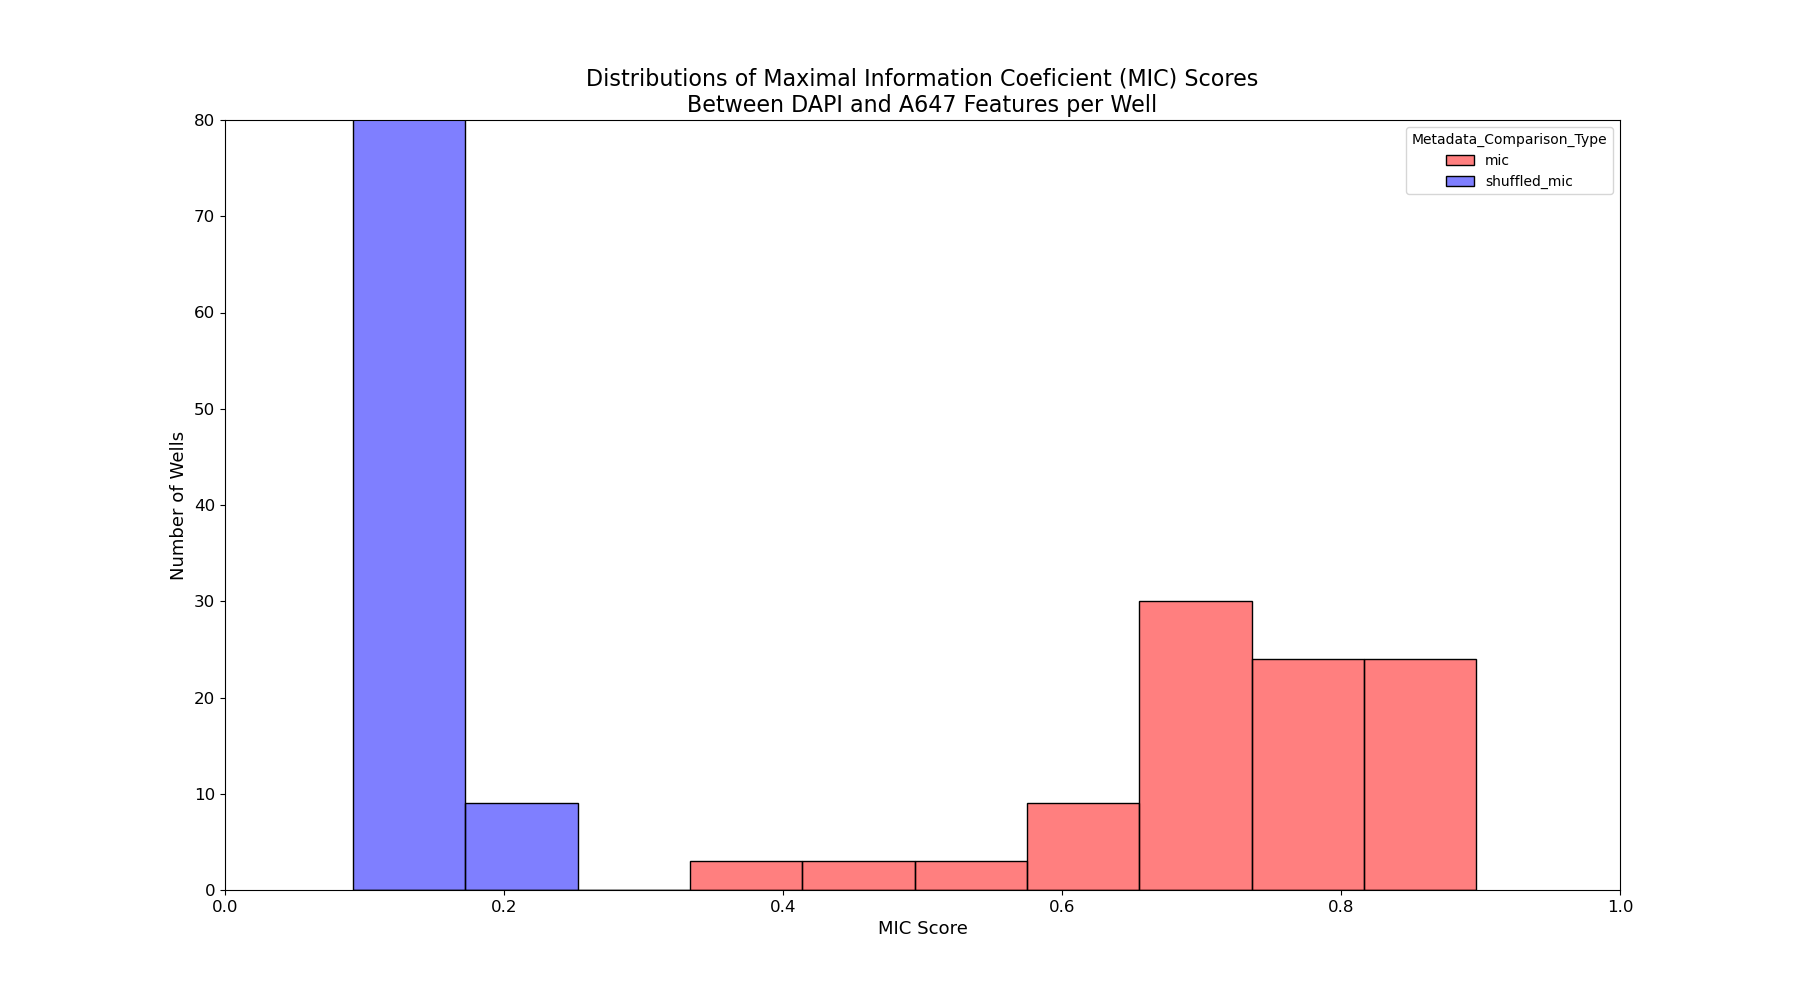
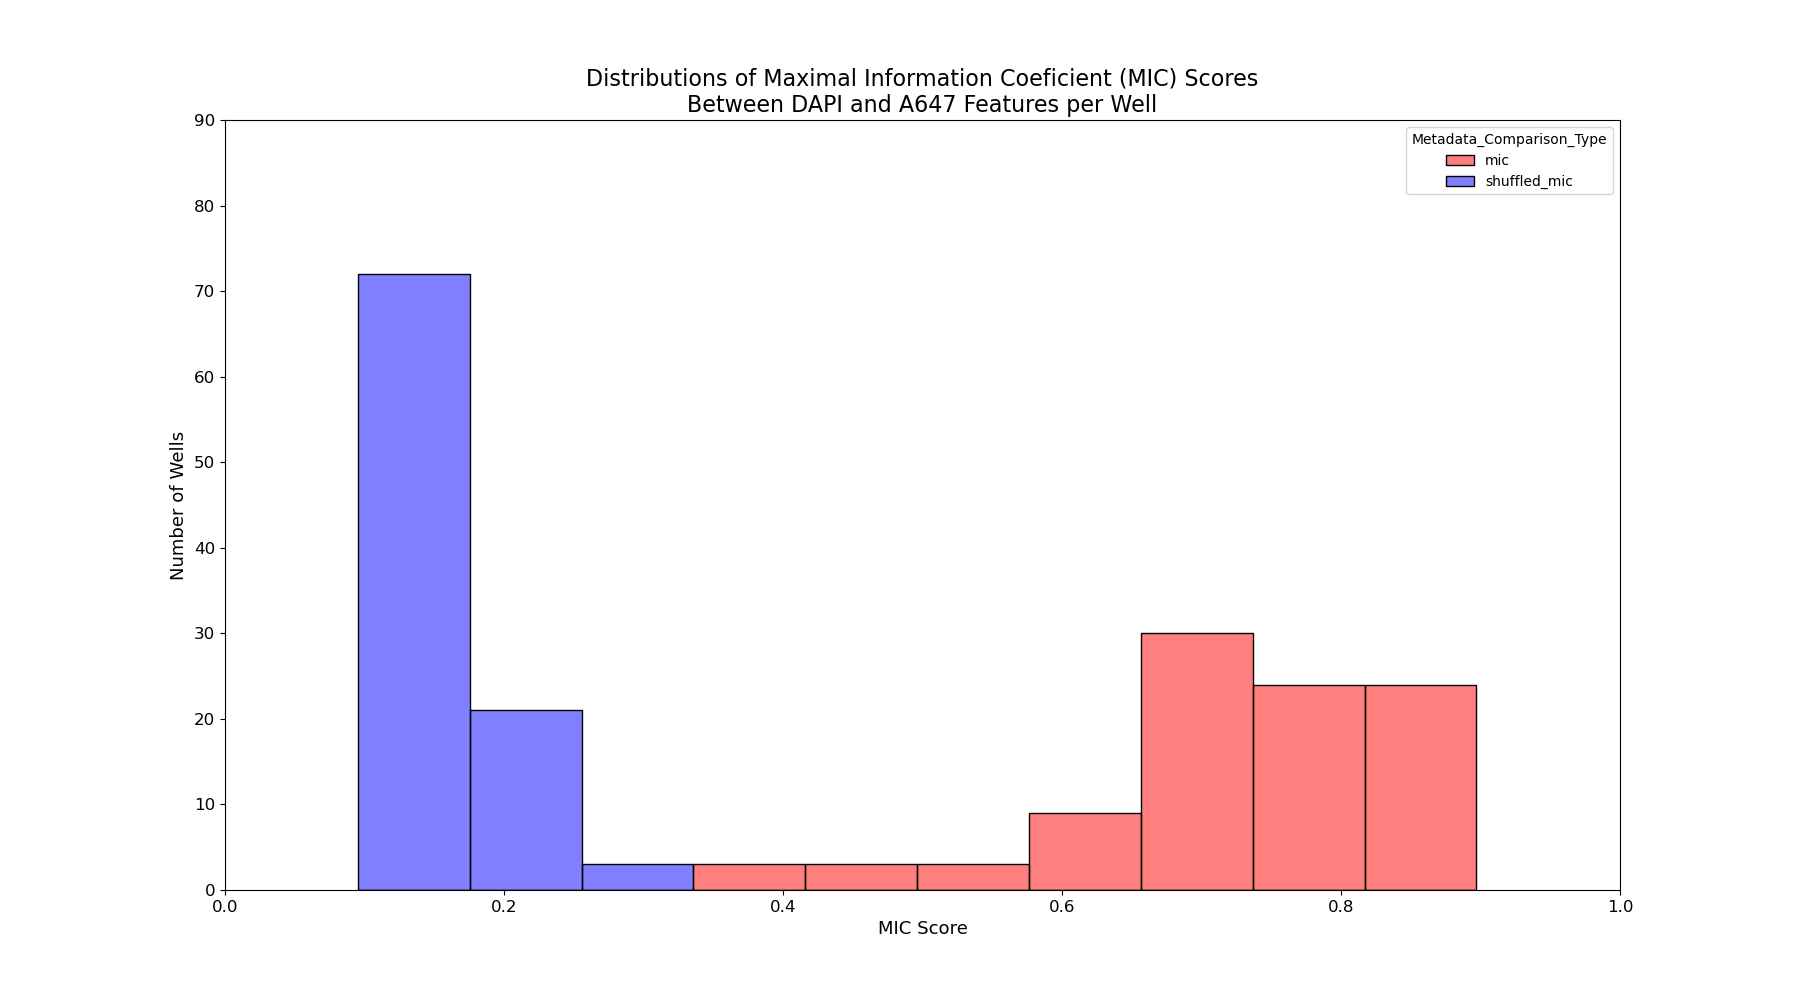
Modified figure y limit

Changed region(s): [[0.1867, 0.124, 0.6533, 0.899], [0.6222, 0.589, 0.84, 0.713], [0.0933, 0.186, 0.1244, 0.217]]

diff --git a/0.data_analysis_and_processing/mic_analysis/nbconverted/well_sirna_mic_analysis.py b/0.data_analysis_and_processing/mic_analysis/nbconverted/well_sirna_mic_analysis.py
@@ -254,7 +254,7 @@ for stain in speckle_stains:
     plt.title(f"Distributions of Maximal Information Coeficient (MIC) Scores\nBetween DAPI and {stain} Features per Well", fontsize=16)
 
     plt.xlim(0, 1)
-    plt.ylim(0.0, 80.0)
+    plt.ylim(0.0, 90.0)
 
     plt.savefig(distribution_figures_path / f"mic_distributions_dapi_{stain.lower()}_wells.png")
     plt.close()
